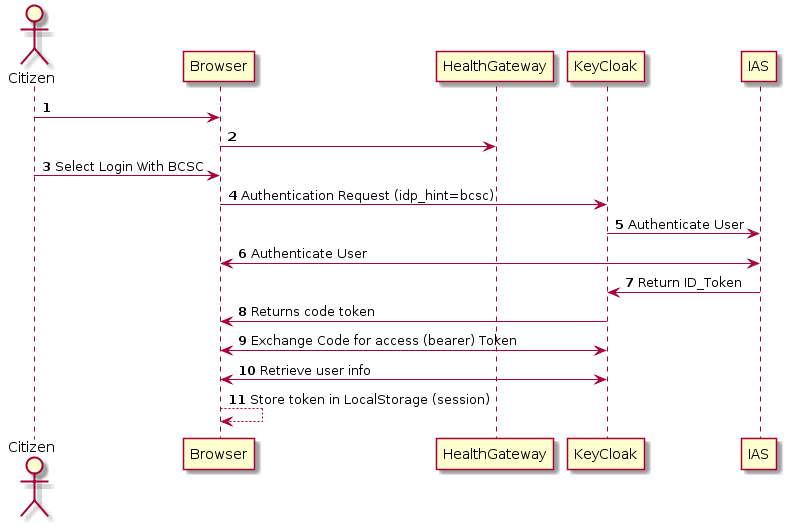
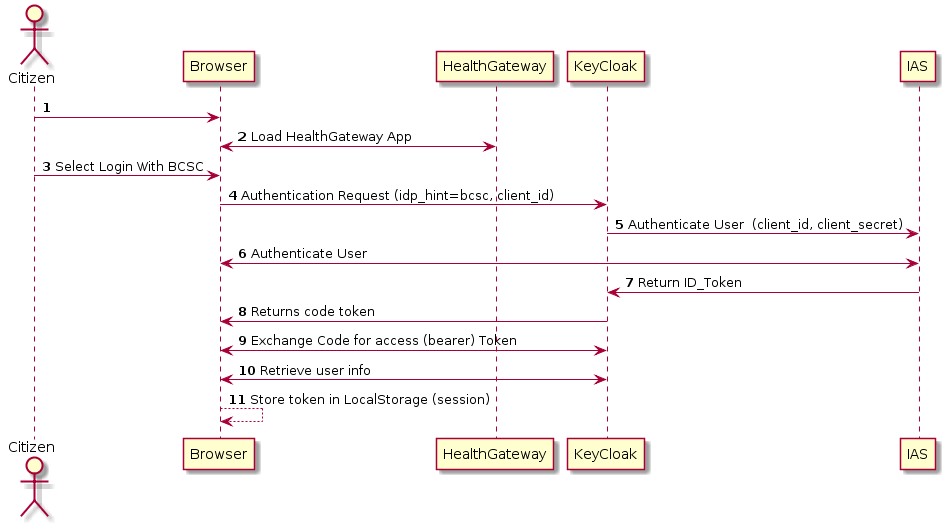
Updated Arhitecture flows for Auth.

diff --git a/docs/Architecture.md b/docs/Architecture.md
@@ -1,6 +1,6 @@
 # High-Level Health Gateway Architecture
 
-## OAuth2 OpenID Connect (OIDC) Authentication Flow
+## Citizen Authentication using OAuth2 OpenID Connect (OIDC) Flow
 
 The Health Gateway is designed to use external identity providers (IdPs) integrated through KeyCloak (RedHat SSO). The principle and initial IdP for authenticating citizens is IAS using the BC Services Card. IAS is the Identity Assurance Service offered by the BC Ministry of Citizens' Services.
 
@@ -8,5 +8,15 @@ The Health Gateway is designed to use external identity providers (IdPs) integra
      alt="OIDC Flow"
      style="float: left; margin-right: 10px;" />
 
-In Step 1, the user navigates to the Health Gateway on their browser.  The browser loads the Health Gateway application in Step 2. In Step 3, the user selects to login using their BC Services Card. Step 4 submits an authentication request to KeyCloak (RedHat SSO) passing the selected identity provider choice, in this case 'bcsc'.  KeyCloak connects to the IAS, a provisioned Identity Provider (IdP), and in Step 5. KeyCloak submits an OAuth2 OIDC authentication request.
+In **Step 1**, the user navigates to the Health Gateway on their browser.  The browser loads the Health Gateway application in **Step 2**. In **Step 3**, the user selects to login using their BC Services Card. **Step 4** submits an authentication request to KeyCloak (RedHat SSO) passing the selected identity provider choice, in this case 'bcsc'.  KeyCloak connects to the IAS, a provisioned Identity Provider (IdP), and in **Step 5**. KeyCloak submits an OAuth2 OIDC authentication request.
 
+In **Step 6**, the BC Services Card authentication flow takes over. The user follows a standard interaction for authenticating with their BC Services Card, most commonly executed using the BC Services Card mobile app.
+
+In **Step 7**, upon a successful login by the Citizen with their BCSC, IAS returns the id_token, a JSON Web Token for the authenticated user. In **Step 8**, KeyCloak returns an authorization code back to the client application (HealthGateway running in the Citizen's browser).  Followin normal Oauth code flow, the client app exchanges the authorization code for the bearer token of the authenticated user in **Step 9**.  Optionally, in **Step 10**, the client app retrieves userInfo by making an explicit call to the KeyCloak server. This retrieves any additional user detail collected as part of the registration flow but not provided from the basic auth flow to BCSC.  
+
+The last step, **Step 11** the user's JWT or bearer token is stored in session in the Browser to avoid repeatedly asking for the user to authenticate themselves. This is deleted upon logout.
+
+## Citizen as Patient
+By default, citizens will have access to their own health data and other Health Gateway user related information. The authorization is managed by user identity attribute from the BC Services Card to resolve to the user's Personal Health Number, or PHN. The PHN is not persisted anywhere within the Health Gateway application and that is by design. 
+
+## User Managed Access  (Using UMA 2.0)
